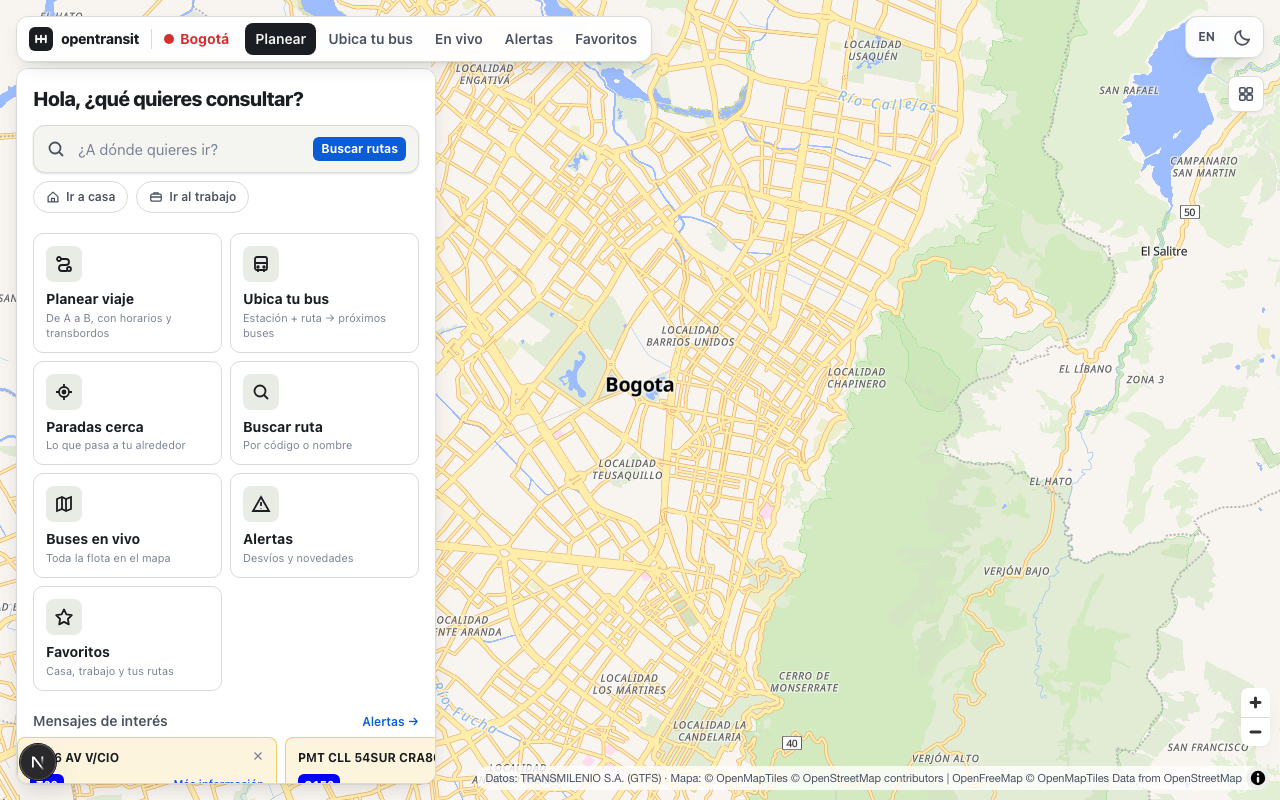
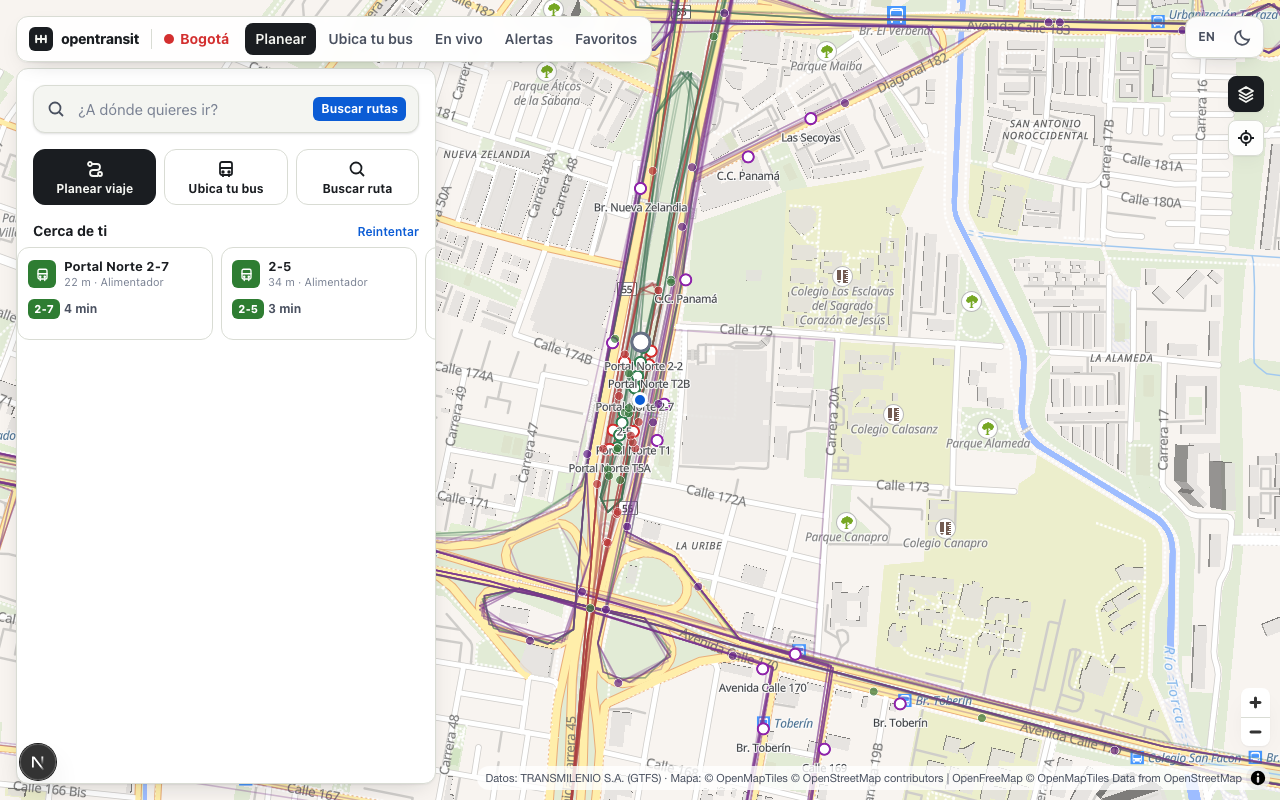
Screenshots (mock + live Bogotá API) for the map-first redesign; route colours through the chip rule on strips, itinerary lines and the network layer; network fades with zoom; board row keys
Claude-Session: https://claude.ai/code/session_01SDzEabQrP5XzwyWhHfsXyV

diff --git a/src/components/map/layers.tsx b/src/components/map/layers.tsx
@@ -5,10 +5,10 @@ import type { GeoJSONSource, MapMouseEvent } from "maplibre-gl";
 import { useEffect, useMemo, useRef, useState } from "react";
 import { useMap, useMapZoom } from "./MapView";
 import { componentColor } from "@/lib/colors";
-import { desaturate } from "@/lib/route-color";
+import { desaturate, routeChipColors } from "@/lib/route-color";
 import { LIVE_DETAIL_ZOOM, LIVE_MIN_ZOOM } from "@/lib/marker-style";
 import { ETA_COLORS, etaBucket } from "@/lib/eta";
-import { bboxOf, decodeGeometry, fc, normalizeHex, toLineString, toPoint, type BBox, type LngLat } from "@/lib/geo";
+import { bboxOf, decodeGeometry, fc, toLineString, toPoint, type BBox, type LngLat } from "@/lib/geo";
 import type { Geometry, Itinerary, NetworkShape, PoiCollection, PoiType, Stop, Vehicle } from "@/lib/api/types";
 import type { FeatureCollection } from "geojson";
 
@@ -95,7 +95,7 @@ export function ItineraryLayer({ itinerary, dim = false }: { itinerary: Itinerar
       toLineString(decodeGeometry(leg.geometry), {
         i,
         walk: !leg.transit,
-        color: leg.route ? normalizeHex(leg.route.color, componentColor(leg.route.component)) : "#667085",
+        color: leg.route ? routeChipColors(leg.route.color, componentColor(leg.route.component)).bg : "#667085",
       }),
     );
     const stops = itinerary.legs.flatMap((leg) =>
@@ -103,7 +103,7 @@ export function ItineraryLayer({ itinerary, dim = false }: { itinerary: Itinerar
         ? [leg.from, ...leg.intermediateStops, leg.to].map((p, j, arr) =>
             toPoint(p.lon, p.lat, {
               end: j === 0 || j === arr.length - 1,
-              color: leg.route ? normalizeHex(leg.route.color, componentColor(leg.route.component)) : "#667085",
+              color: leg.route ? routeChipColors(leg.route.color, componentColor(leg.route.component)).bg : "#667085",
             }),
           )
         : [],
@@ -187,14 +187,34 @@ export function LineLayer({ id, geometry, color, width = 4, fit = false }: { id:
 }
 
 // ── Network (all shapes, thin) ──────────────────────────────────────────────
-export function NetworkLayer({ shapes, opacity = 0.35 }: { shapes: NetworkShape[]; opacity?: number }) {
+/**
+ * Every route shape as a quiet backdrop. Feeds ship neon colours and hundreds of
+ * overlapping shapes on the same corridor, so lines use the desaturated component
+ * colour, stay ≤ 2 px and sit well below the labels.
+ */
+export function NetworkLayer({ shapes, opacity = 0.3 }: { shapes: NetworkShape[]; opacity?: number }) {
   const data = useMemo(
-    () => fc(shapes.map((s) => toLineString(decodeGeometry(s.geometry), { color: normalizeHex(s.color, componentColor(s.component)), c: s.component }))),
+    () => fc(shapes.map((s) => toLineString(decodeGeometry(s.geometry), { color: desaturate(routeChipColors(s.color, componentColor(s.component)).bg, 0.35), c: s.component }))),
     [shapes],
   );
-  useGeoJsonLayer("network", data, [
-    { id: "network-line", type: "line", layout: { "line-join": "round" }, paint: { "line-color": ["get", "color"], "line-width": ["interpolate", ["linear"], ["zoom"], 10, 1, 14, 2.5], "line-opacity": opacity } },
-  ]);
+  useGeoJsonLayer(
+    "network",
+    data,
+    [
+      {
+        id: "network-line",
+        type: "line",
+        layout: { "line-join": "round", "line-cap": "round" },
+        paint: {
+          "line-color": ["get", "color"],
+          "line-width": ["interpolate", ["linear"], ["zoom"], 10, 0.5, 14, 1.1, 17, 2],
+          // fades in with zoom: at city scale a thousand shapes would otherwise cover the basemap
+          "line-opacity": ["interpolate", ["linear"], ["zoom"], 11, opacity * 0.35, 13.5, opacity * 0.7, 15, opacity],
+        },
+      },
+    ],
+    { before: "waterway_name" },
+  );
   return null;
 }
 

diff --git a/src/components/itinerary/ItineraryDetail.tsx b/src/components/itinerary/ItineraryDetail.tsx
@@ -7,7 +7,7 @@ import { useState } from "react";
 import { useI18n } from "@/lib/i18n/provider";
 import { fmtDelay, fmtDistance, fmtDuration, fmtTime } from "@/lib/format";
 import { componentColor } from "@/lib/colors";
-import { normalizeHex } from "@/lib/geo";
+import { routeChipColors } from "@/lib/route-color";
 import { Badge, Button, Icon } from "@/components/ui/primitives";
 import { RouteChip } from "@/components/ui/RouteChip";
 import { FareTag } from "@/components/ui/FareTag";
@@ -123,7 +123,7 @@ export function ItineraryDetail({
 function LegRow({ leg, city, tz, last, current, done }: { leg: Leg; city: City; tz: string; last: boolean; current: boolean; done: boolean }) {
   const { t, lang } = useI18n();
   const [open, setOpen] = useState(false);
-  const color = leg.transit ? normalizeHex(leg.route?.color, componentColor(leg.route?.component)) : "var(--ink-3)";
+  const color = leg.transit ? routeChipColors(leg.route?.color, componentColor(leg.route?.component)).bg : "var(--ink-3)";
   const delay = fmtDelay(leg.delaySeconds, lang);
   const nStops = leg.intermediateStops.length + 1;
   const svc = serviceStatus(t, leg.route);

diff --git a/src/app/[city]/routes/[routeId]/page.tsx b/src/app/[city]/routes/[routeId]/page.tsx
@@ -20,7 +20,7 @@ import { useRoute } from "@/lib/api/hooks";
 import { useVehicleStream } from "@/lib/api/stream";
 import { useInterpolatedVehicles } from "@/lib/interpolate";
 import { useI18n } from "@/lib/i18n/provider";
-import { normalizeHex } from "@/lib/geo";
+import { routeChipColors } from "@/lib/route-color";
 import { resolveConfig, componentOf, componentsOf } from "@/lib/city-config";
 import { serviceStatus } from "@/lib/service-window";
 import type { Vehicle } from "@/lib/api/types";
@@ -36,7 +36,7 @@ export default function RoutePage({ params }: { params: Promise<{ routeId: strin
   const [dir, setDir] = useState(0);
   const pattern = r?.patterns[dir] ?? r?.patterns[0] ?? null;
   const comp = componentOf(city, r?.component);
-  const color = r ? normalizeHex(r.color, comp.color) : "#667085";
+  const color = r ? routeChipColors(r.color, comp.color).bg : "#667085";
   const svc = serviceStatus(t, r);
 
   const stream = useVehicleStream(city.id, cfg.features.liveVehicles);

diff --git a/src/components/itinerary/RouteStrip.tsx b/src/components/itinerary/RouteStrip.tsx
@@ -1,5 +1,5 @@
 import { componentColor } from "@/lib/colors";
-import { contrastText, normalizeHex } from "@/lib/geo";
+import { routeChipColors } from "@/lib/route-color";
 import type { Itinerary } from "@/lib/api/types";
 
 /**
@@ -16,8 +16,7 @@ export function RouteStrip({ itinerary, height = 30 }: { itinerary: Itinerary; h
         if (!leg.transit) {
           return <span key={i} className="strip-walk self-center" style={{ flex: `${share} 1 0`, height: 3 }} />;
         }
-        const bg = leg.route ? normalizeHex(leg.route.color, componentColor(leg.route.component)) : "#667085";
-        const fg = leg.route?.textColor ? normalizeHex(leg.route.textColor, contrastText(bg)) : contrastText(bg);
+        const { bg, fg } = leg.route ? routeChipColors(leg.route.color, componentColor(leg.route.component)) : { bg: "#667085", fg: "#ffffff" };
         const code = leg.route?.shortName ?? leg.mode;
         return (
           <span

diff --git a/src/components/stops/ArrivalBoard.tsx b/src/components/stops/ArrivalBoard.tsx
@@ -58,7 +58,7 @@ export function ArrivalBoard({ board, city, refreshing, onPickRoute }: { board: 
                   <p className="mt-0.5 text-xs text-ink-3">
                     {t.board.then}{" "}
                     {rest.map((n, i) => (
-                      <span key={n.time}>
+                      <span key={`${n.tripId ?? i}-${n.time}`}>
                         <span className={`tabular-nums ${n.realtime ? "font-semibold text-ink-2" : ""}`} title={n.realtime ? t.freshness.live : t.freshness.scheduled}>
                           {n.minutes}
                           {n.realtime ? <span className="live-dot ml-0.5 inline-block align-middle" style={{ width: 4, height: 4 }} /> : null}
